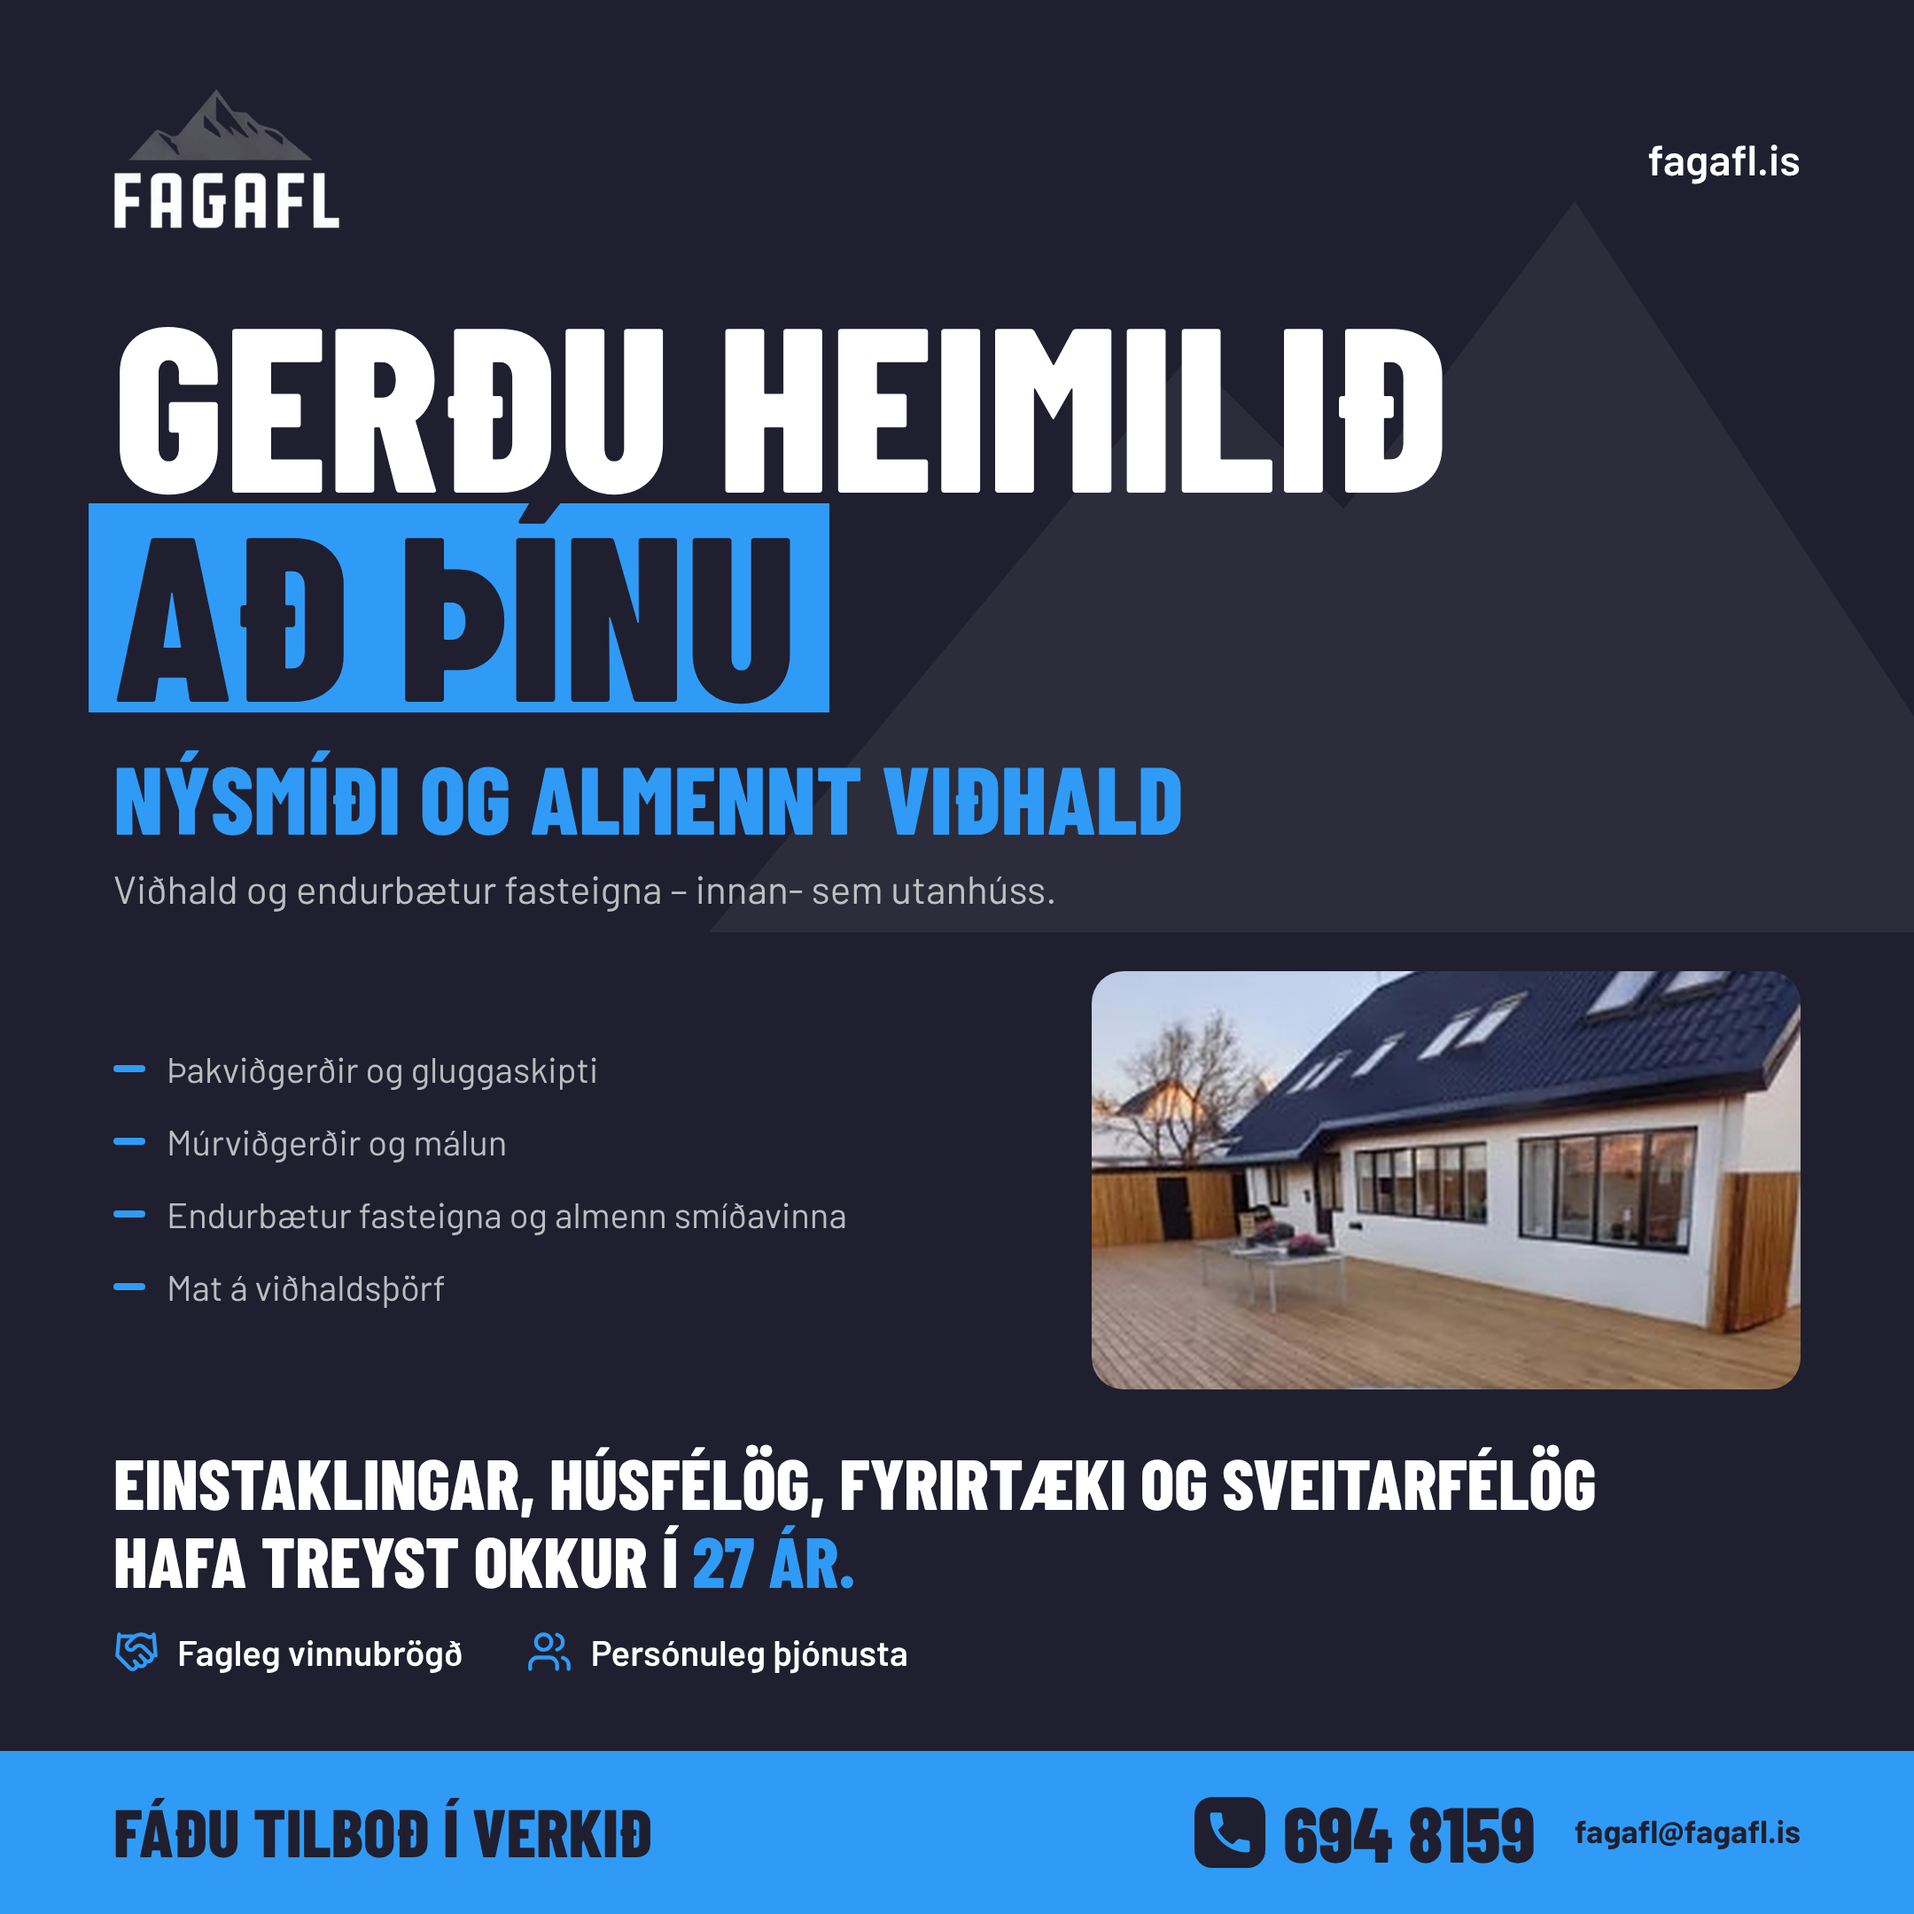
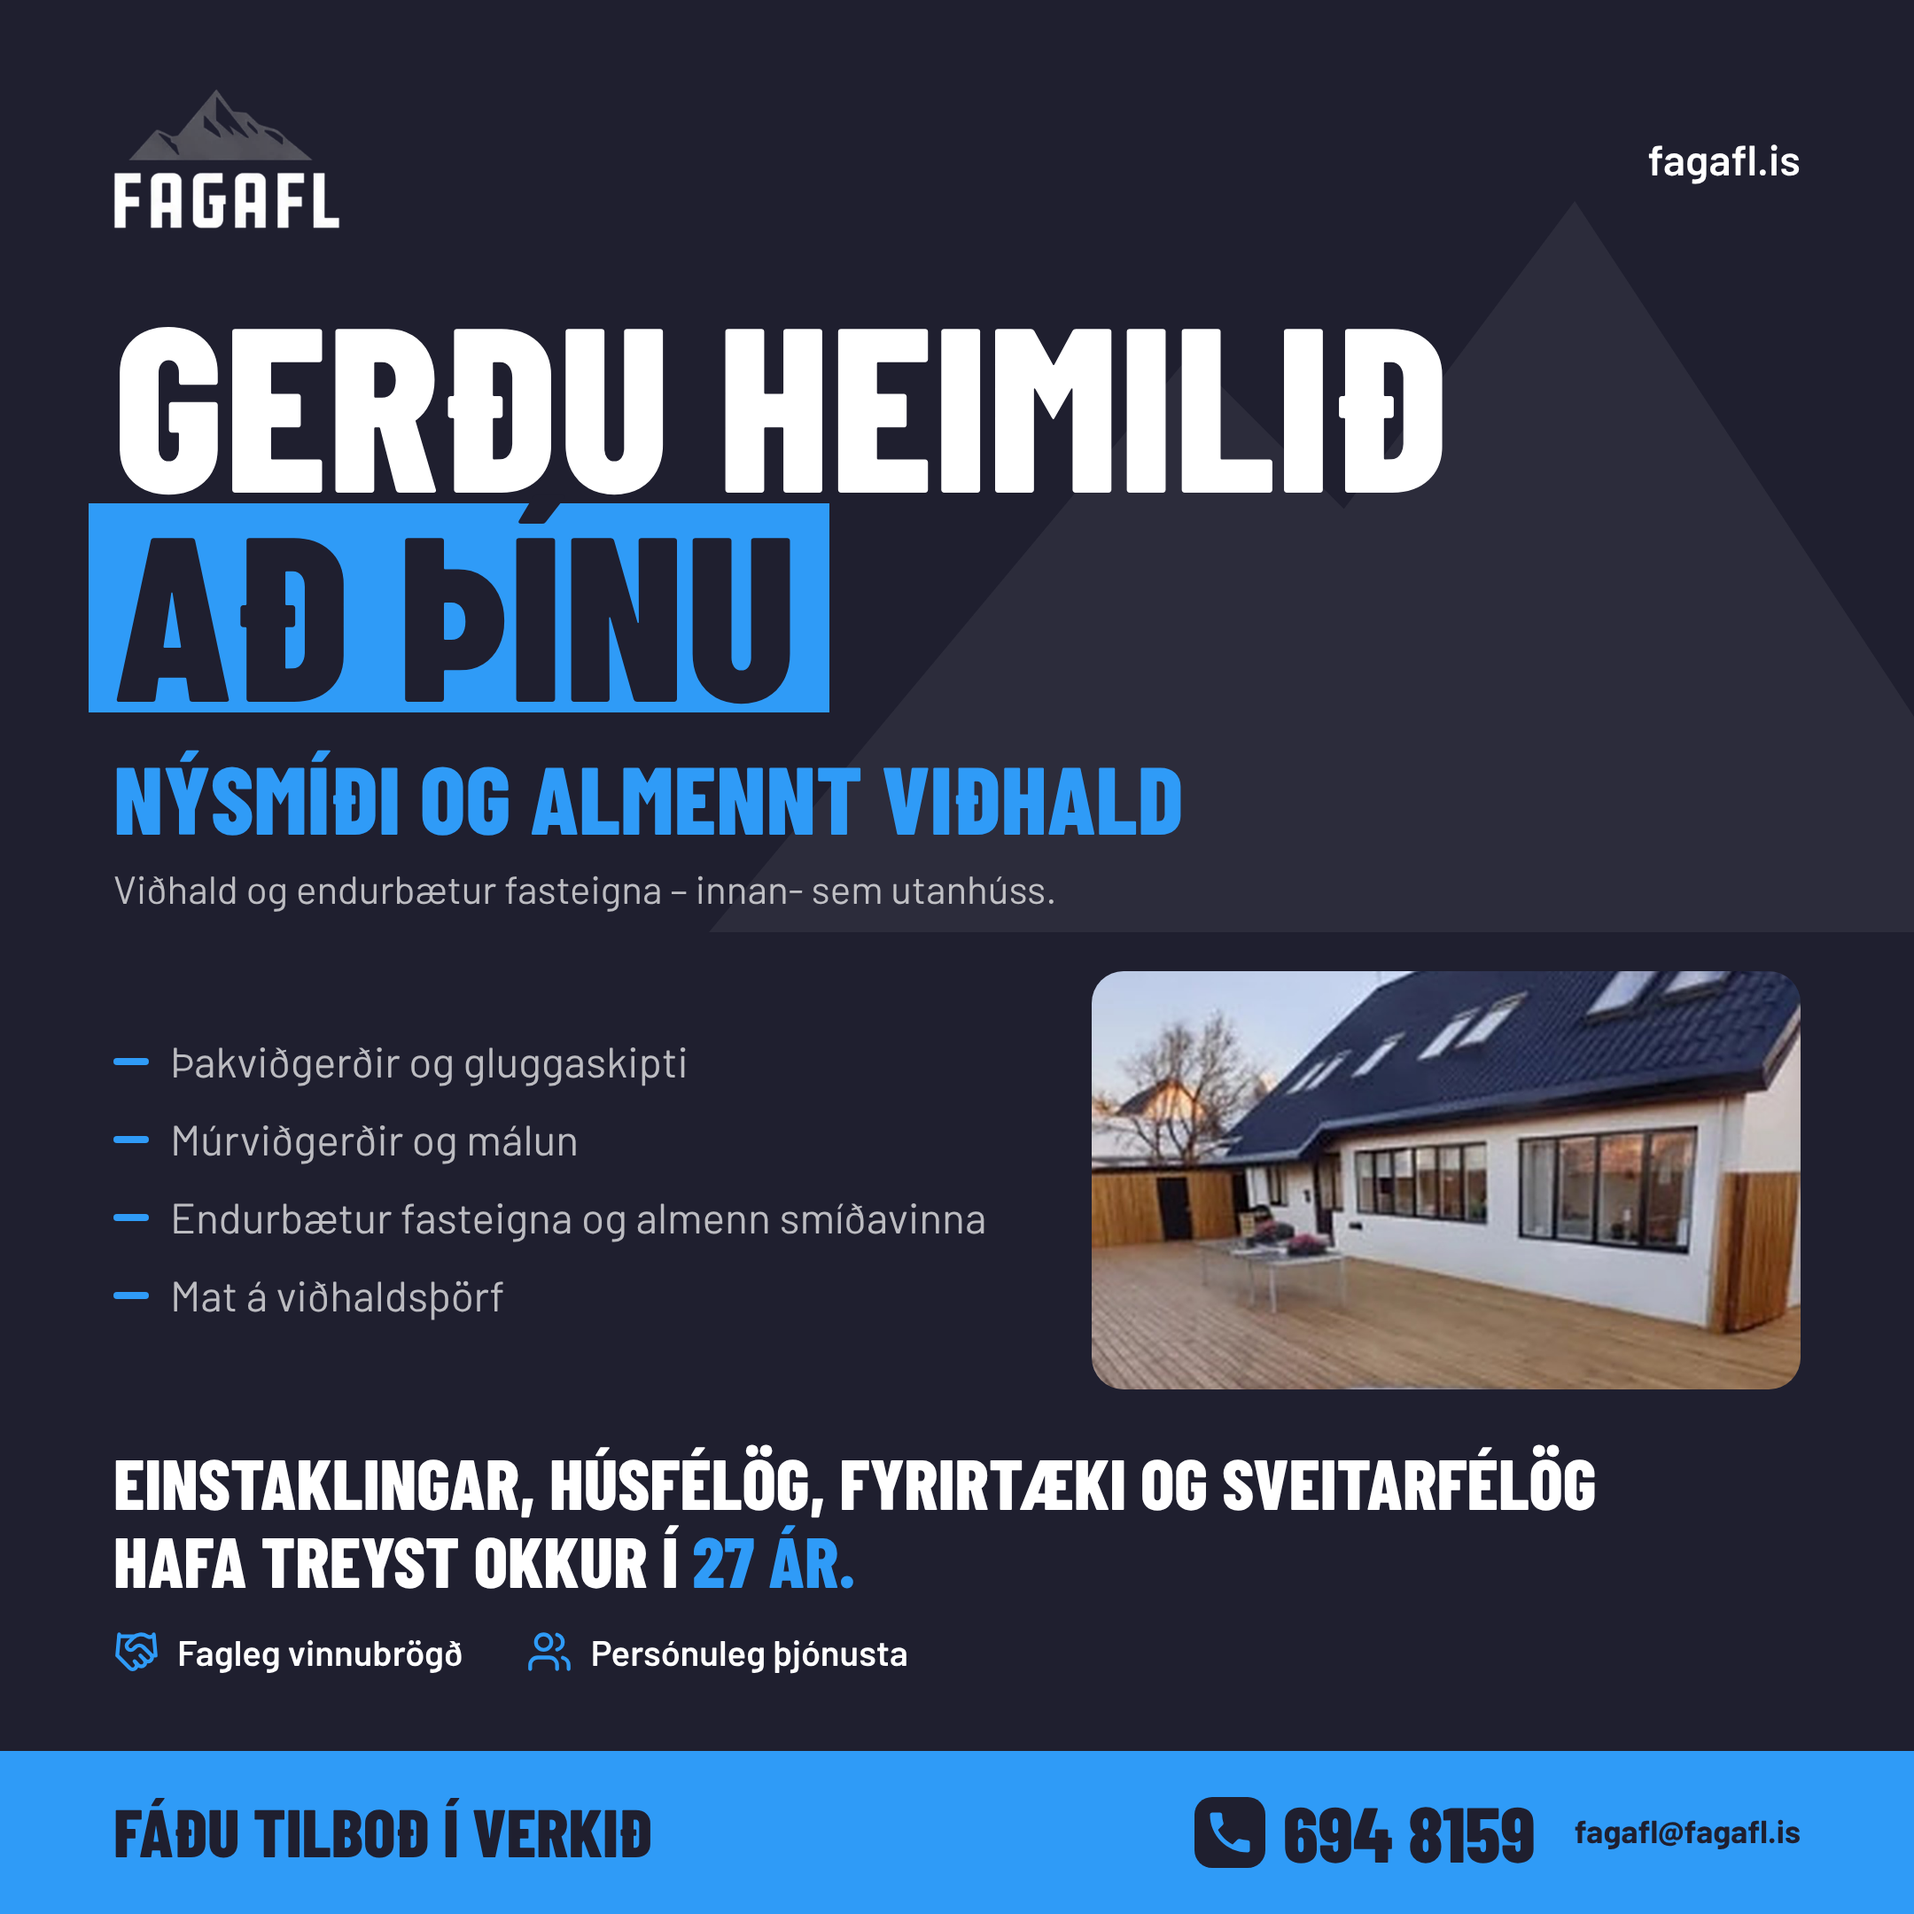
Fagafl auglýsing: stækka þjónustulistann
Claude-Session: https://claude.ai/code/session_01JAXd2iUkkgxGEMg3nH9dLE

Changed region(s): [[0.062, 0.5273, 0.4963, 0.6824]]

diff --git a/auglysingar/fagafl/src/fagafl.html b/auglysingar/fagafl/src/fagafl.html
@@ -22,9 +22,9 @@ html,body{width:1080px;height:1080px;background:var(--dokkt)}
 .fyrirsogn mark{display:inline-block;margin-left:-14px;padding:0 18px 0 14px;background:var(--blatt);color:var(--dokkt)}
 .undir{left:64px;top:420px;font-family:"Barlow Condensed";font-weight:800;font-size:54px;line-height:1.1;text-transform:uppercase;color:var(--blatt);white-space:nowrap}
 .texti{left:64px;top:486px;font-size:22px;line-height:30px;color:var(--dauft);white-space:nowrap}
-.thjonusta{left:64px;top:590px;width:520px;list-style:none;font-size:20px;line-height:26px;color:var(--dauft)}
-.thjonusta li{position:relative;padding-left:30px;margin-bottom:15px}
-.thjonusta li::before{content:"";position:absolute;left:0;top:11px;width:18px;height:4px;border-radius:2px;background:var(--blatt)}
+.thjonusta{left:64px;top:584px;width:540px;list-style:none;font-size:24px;line-height:30px;color:var(--dauft)}
+.thjonusta li{position:relative;padding-left:32px;margin-bottom:14px}
+.thjonusta li::before{content:"";position:absolute;left:0;top:13px;width:20px;height:4px;border-radius:2px;background:var(--blatt)}
 .mynd{left:616px;top:548px;width:400px;height:236px;border-radius:18px;overflow:hidden;background:#2A2B3D}
 .mynd img{display:block;width:100%;height:100%;object-fit:cover;object-position:50% 12%}
 .traust{left:64px;top:814px;font-family:"Barlow Condensed";font-weight:800;font-size:40px;line-height:44px;text-transform:uppercase;white-space:nowrap}

diff --git a/auglysingar/fagafl/README.md b/auglysingar/fagafl/README.md
@@ -6,7 +6,7 @@
 ## Útgáfa 3
 
 - Fyrirsögn: „Gerðu heimilið að þínu“ og „Nýsmíði og almennt viðhald“.
-- Fjórir þjónustuliðir í sömu stærð og undirtextinn, svo þeir séu sýnilegir án þess að vera áberandi.
+- Fjórir þjónustuliðir í gráu, venjulegu letri (24 px), svo þeir séu vel læsilegir án þess að vera áberandi.
 - Ein mynd (einbýlishúsið), að ósk Fagafls.
 - Símanúmerið er skrifað „694 8159“ eins og í textanum frá þeim.
 
